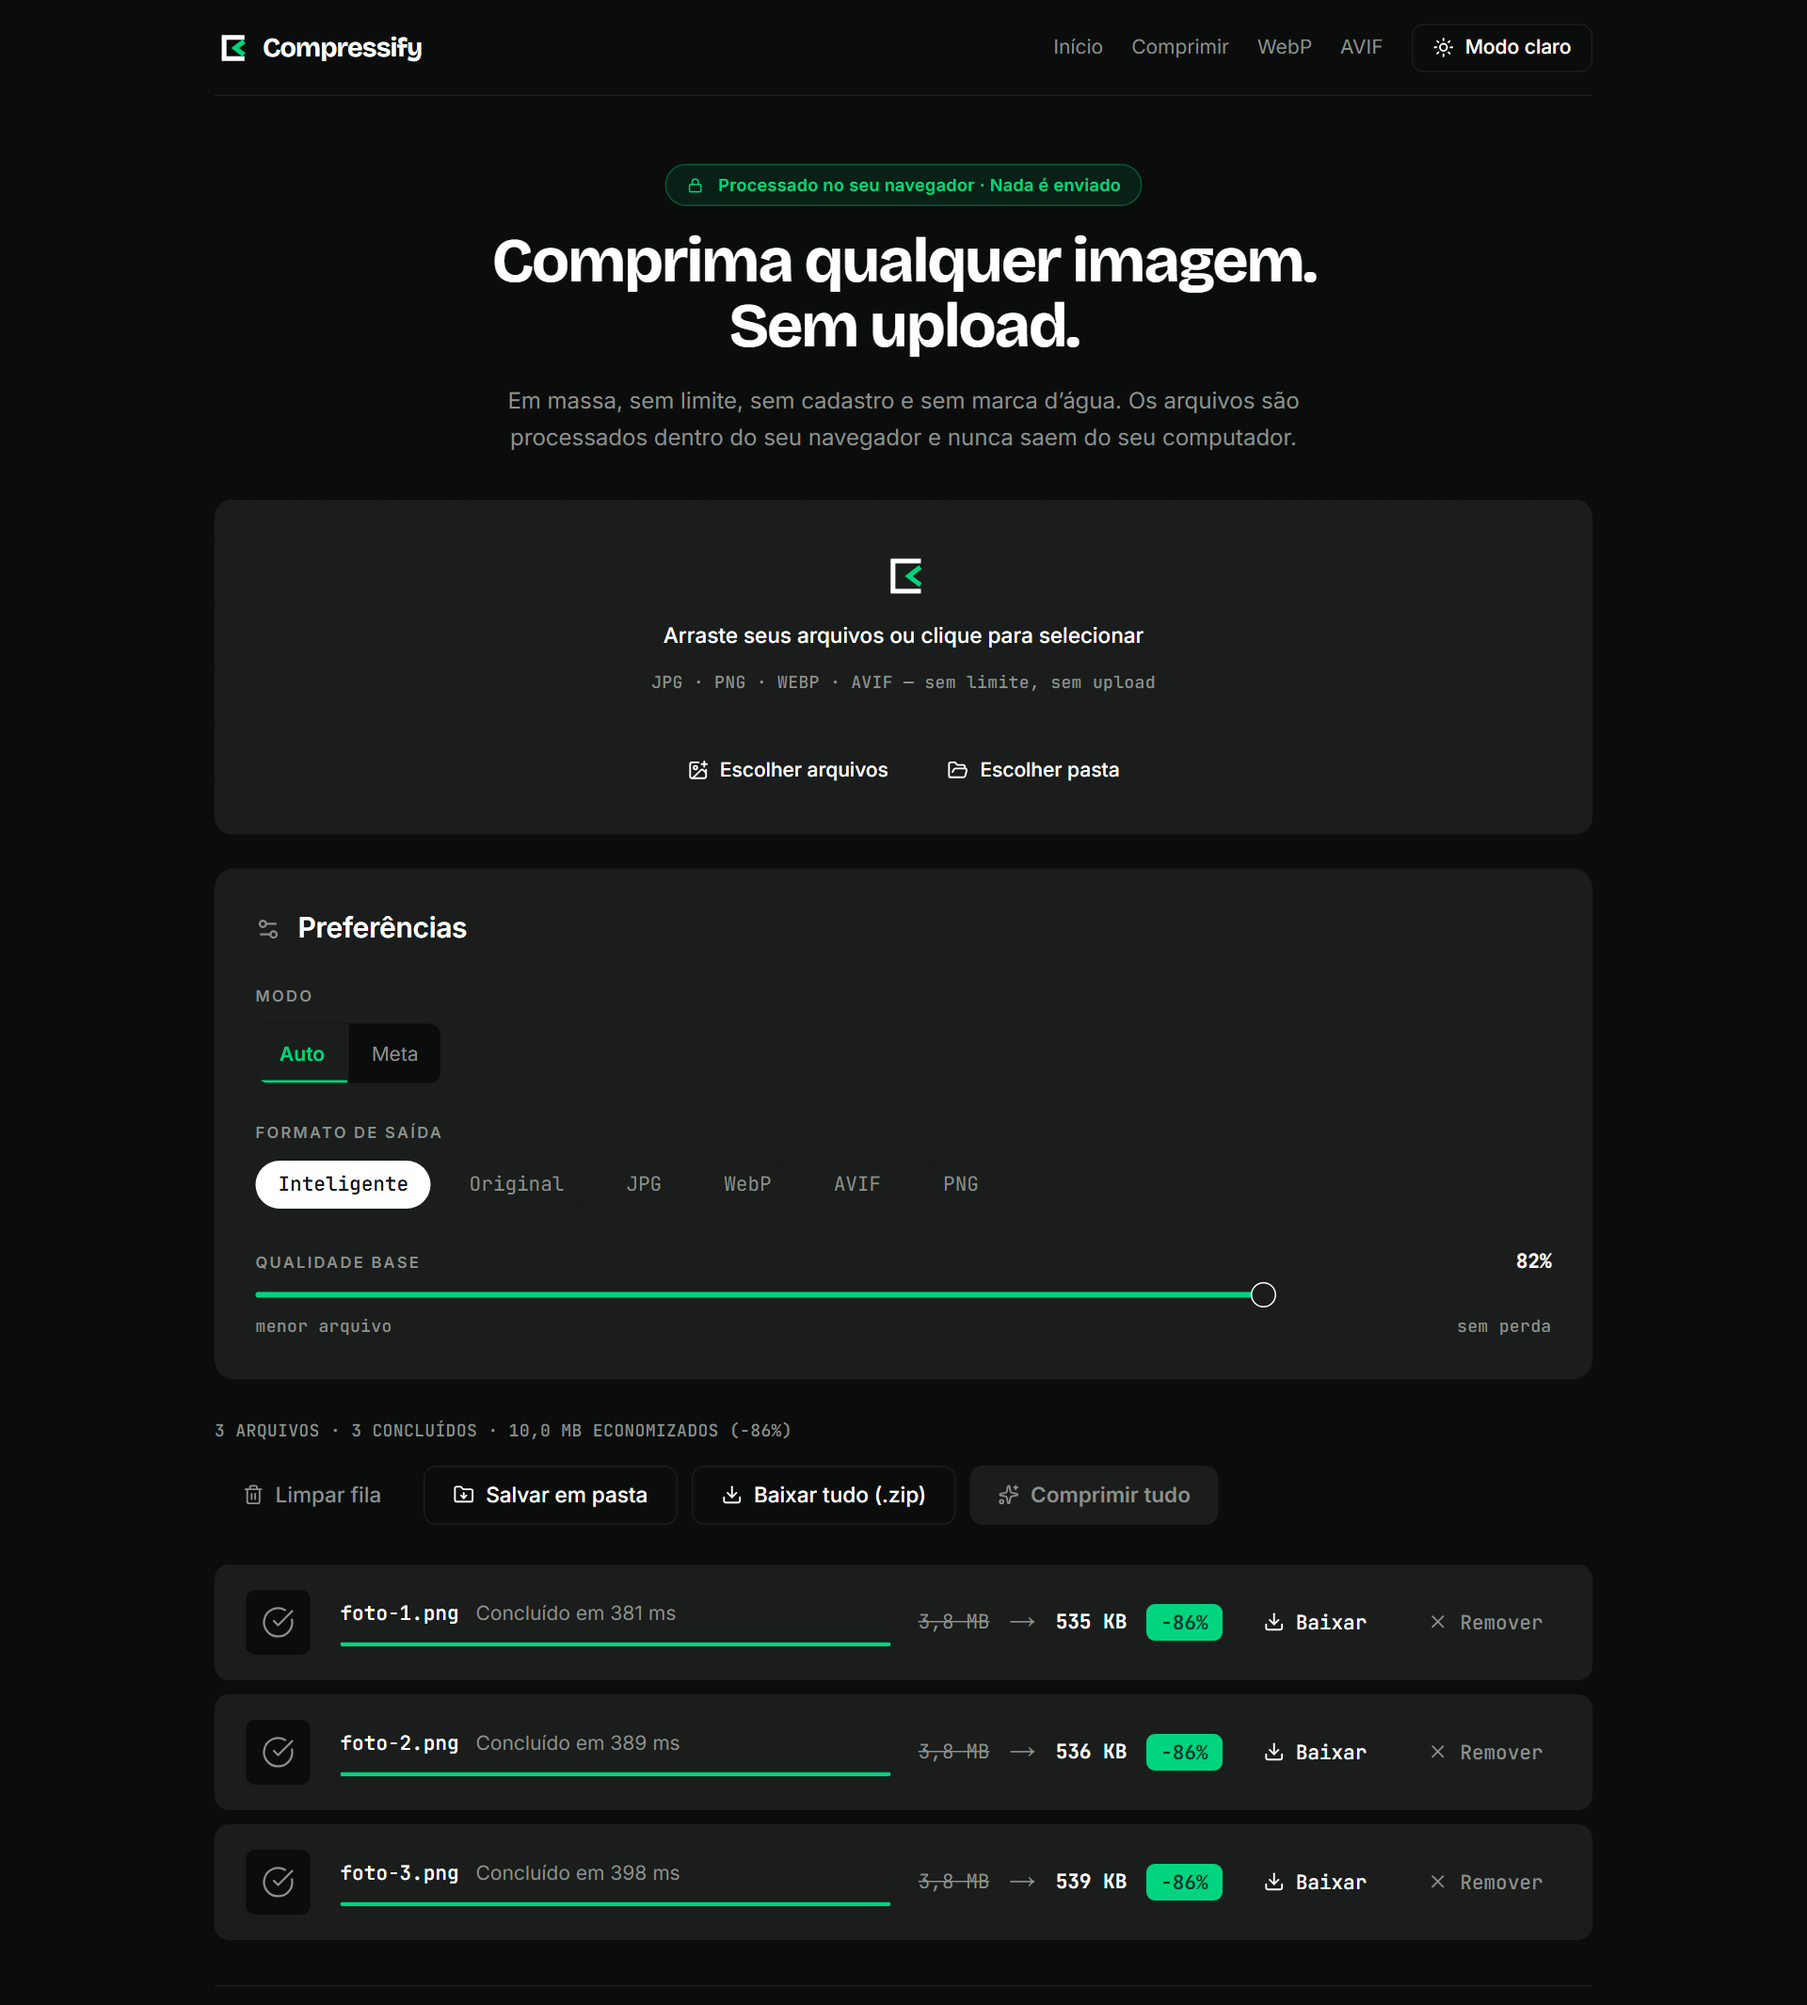
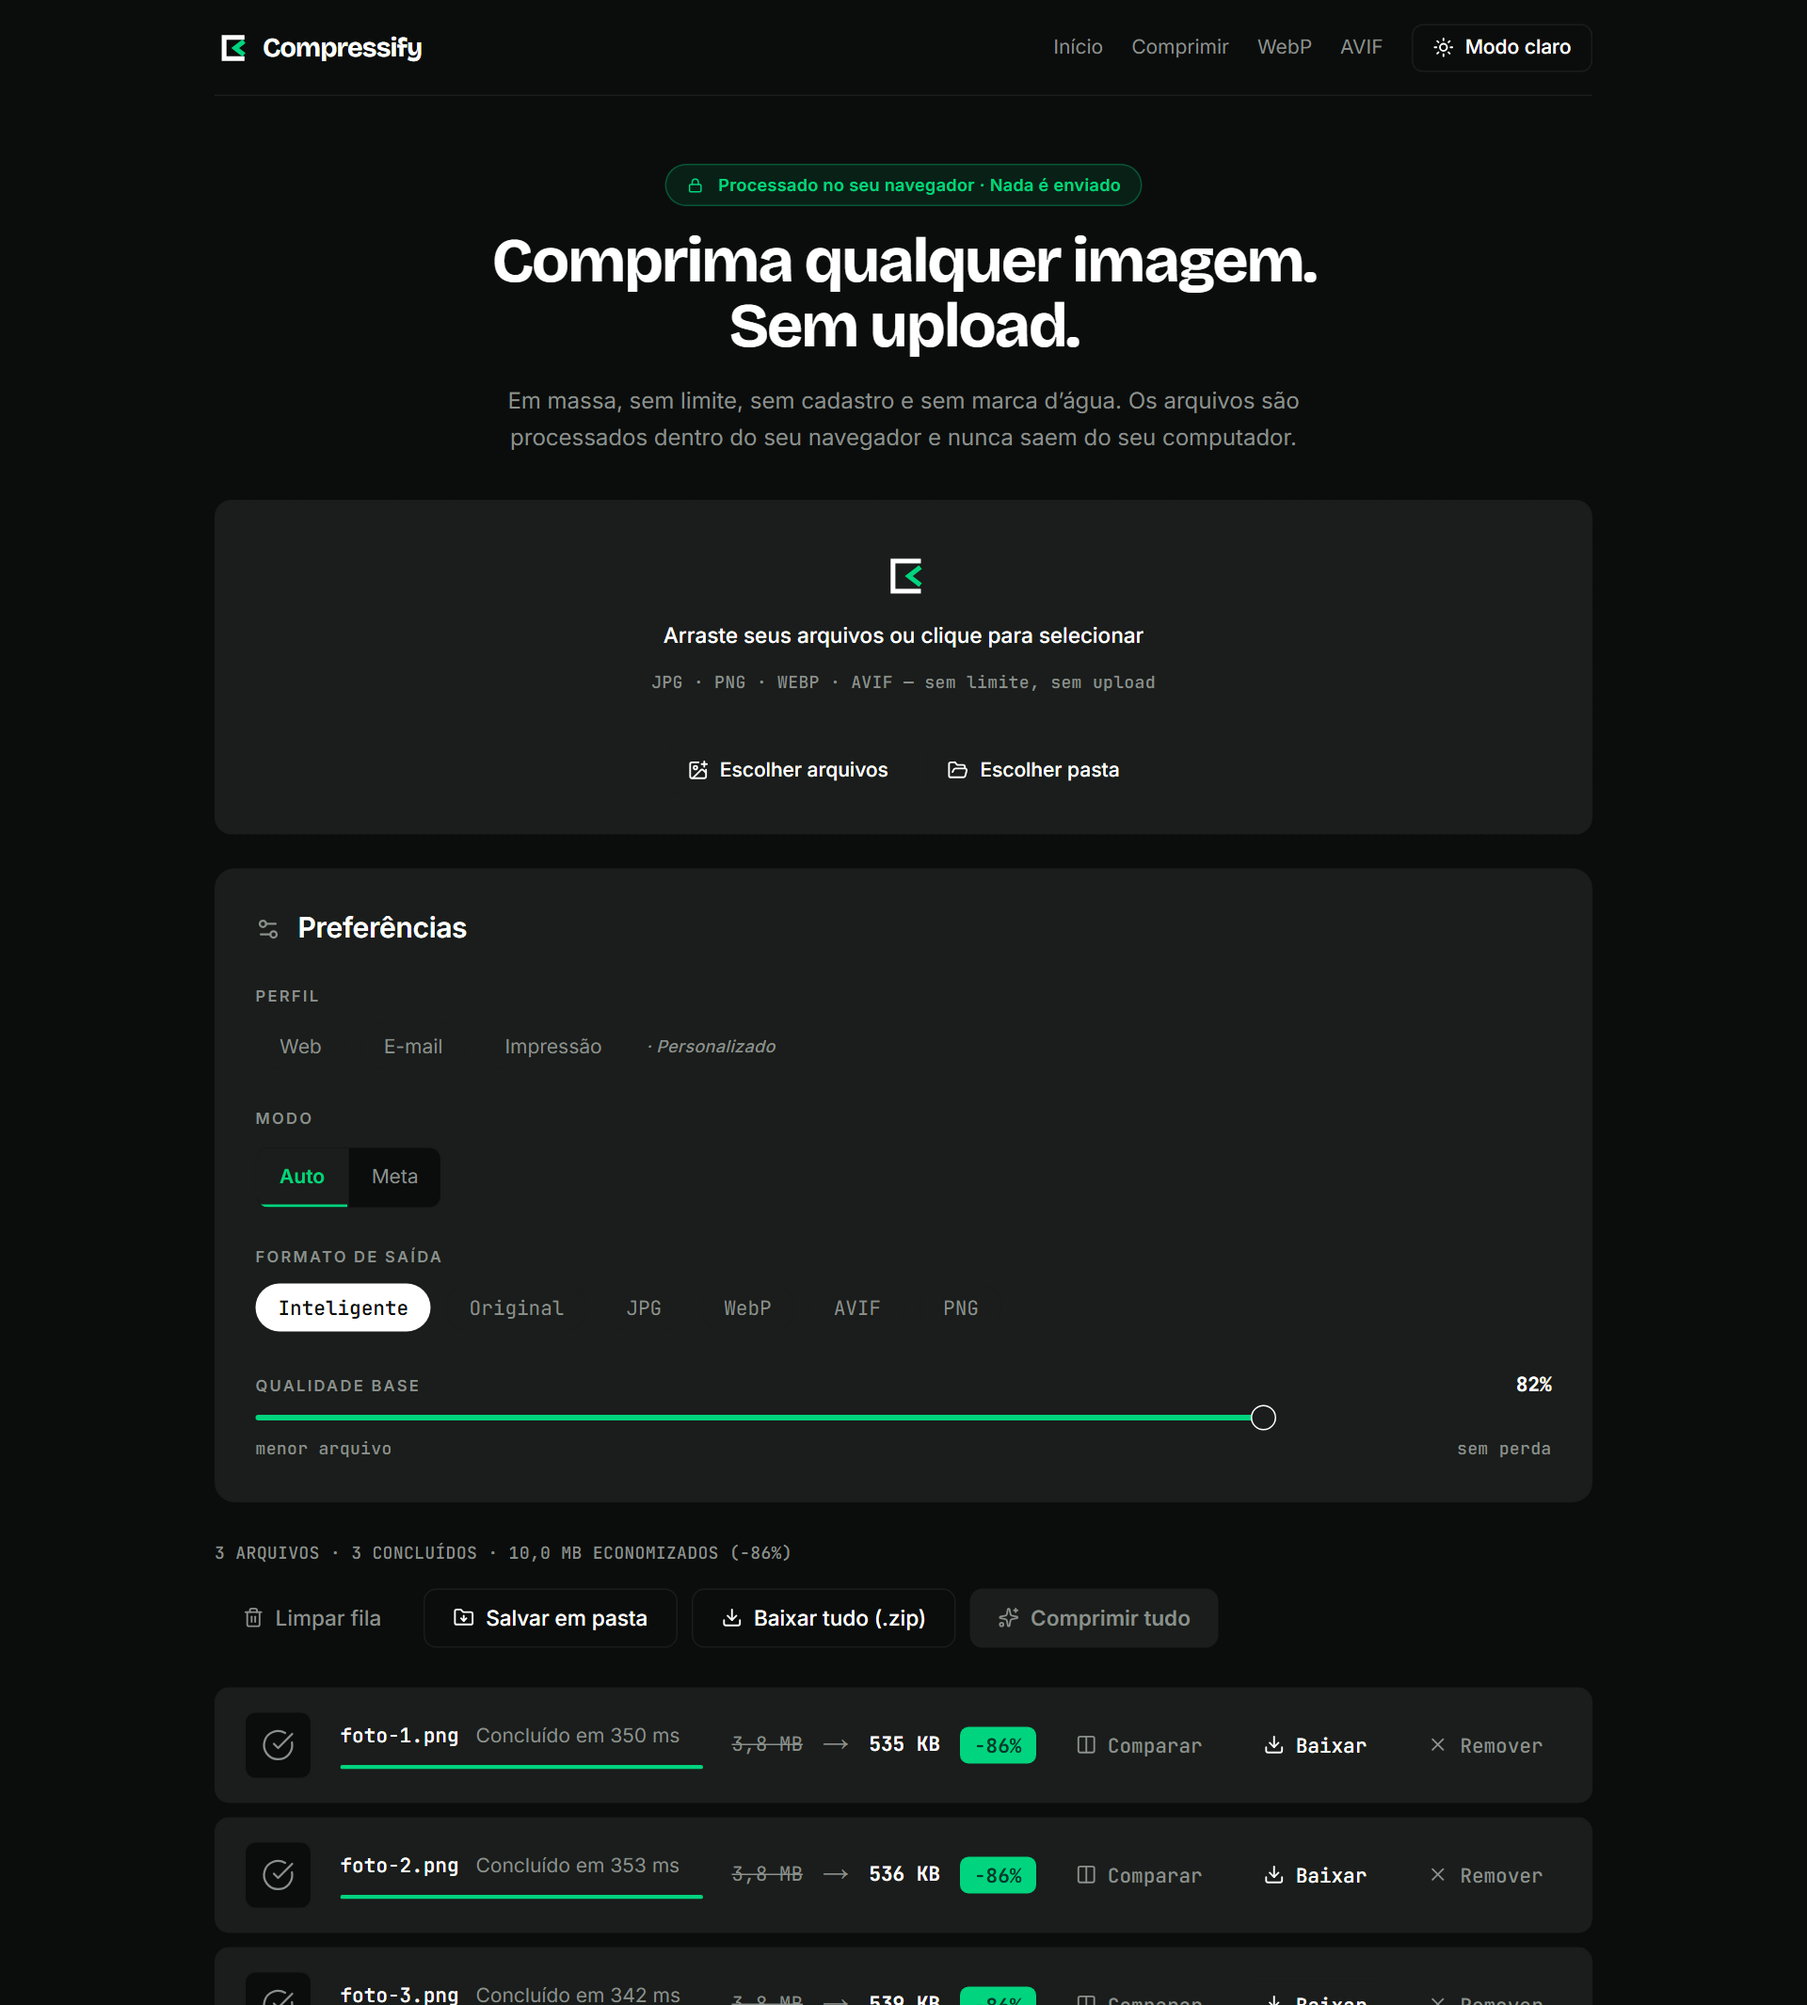
fix(ui): "Personalizado" é um estado, não uma quarta opção de perfil
A captura de tela do README é gerada por script, e foi ela que mostrou o
problema: alinhado com os três botões e com o mesmo peso visual,
"Personalizado" se lê como uma quarta escolha — sendo que é justamente a
única que não é clicável. Separador e itálico dizem "é isto que está
valendo" em vez de "clique aqui".

As capturas dos dois temas foram regeradas junto, agora com a fileira de
perfis e o botão Comparar na tela. É o motivo de ela ser um script: a
interface mudou em três incrementos e atualizar a imagem é um comando.

diff --git a/src/components/queue/OptionsPanel.tsx b/src/components/queue/OptionsPanel.tsx
@@ -108,7 +108,16 @@ export function OptionsPanel() {
             )
           })}
 
-          {!active && <span className="text-caption text-text-muted">Personalizado</span>}
+          {/*
+            Um estado, não uma quarta opção. Na captura de tela do README a
+            primeira versão saiu alinhada com os três botões e com o mesmo
+            peso — quem olha lê quatro escolhas, sendo que esta não é
+            clicável. O separador e o itálico dizem "é isto que está valendo"
+            em vez de "clique aqui".
+          */}
+          {!active && (
+            <span className="text-caption text-text-muted ml-1 italic">· Personalizado</span>
+          )}
         </div>
       </div>
 
